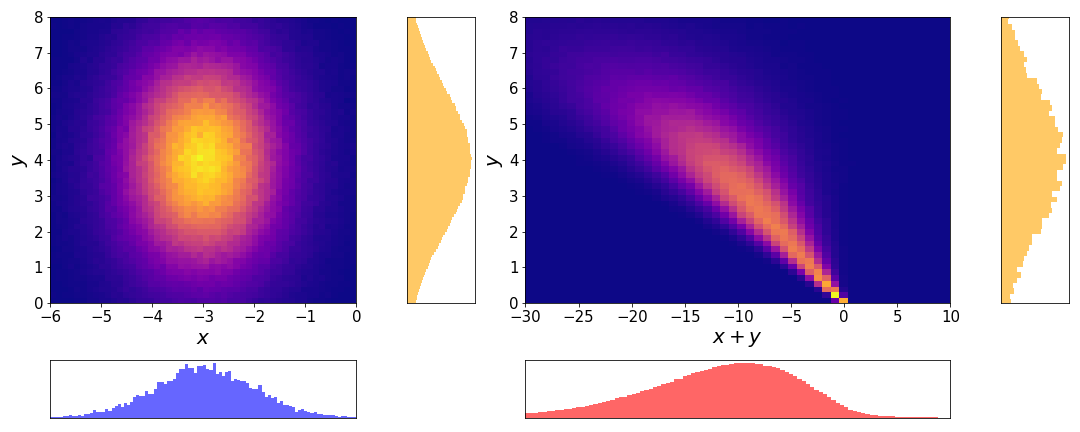
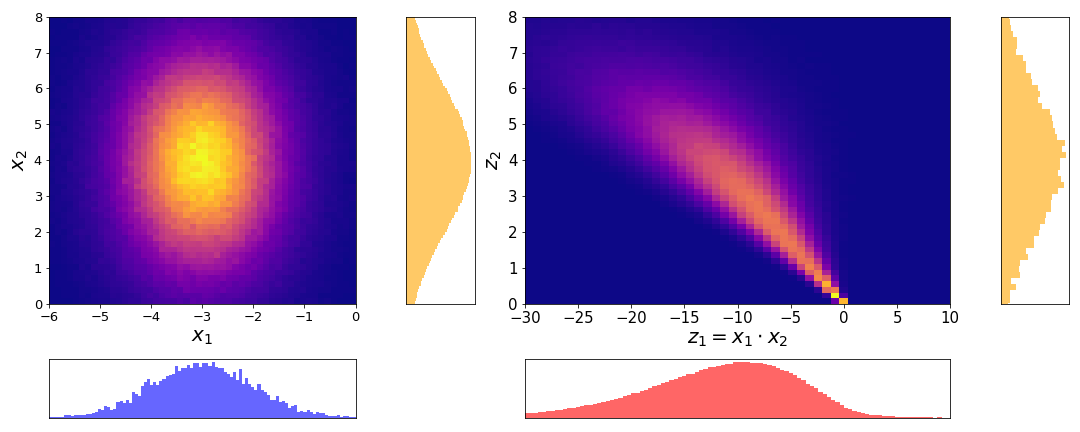
updated RV vs PDF

diff --git a/_posts/2021-06-01-RV_vs_pdf.md b/_posts/2021-06-01-RV_vs_pdf.md
@@ -42,17 +42,17 @@ Let $$X_1$$ and $$X_2$$ be two independent RVs with pdfs $$f_1(X_1)$$ and $$f_2(
 
 $$
 \begin{aligned}
-w &= x_1 + x_2 \\
-x_2 &= x_2
+w_1 &= x_1 + x_2 \\
+w_2 &= x_2
 \end{aligned}
 $$
 
-and inverse transformation $$g^{-1}(w, x_2)$$
+and inverse transformation $$g^{-1}(w_1, w_2)$$
 
 $$
 \begin{aligned}
-x_1 &= w - x_2 \\
-x_2 &= x_2
+x_1 &= w - w_2 \\
+x_2 &= w_2
 \end{aligned}
 $$
 
@@ -60,8 +60,8 @@ With the <a href='https://en.wikipedia.org/wiki/Probability_density_function#Fun
 
 $$
 \begin{aligned}
-f_Y(w,x_2) &= f(g^{-1}(w,x_2)) \vert J \vert \\
-&= f_1(w-x_2) f_2(x_2) \vert J \vert \\
+f_Y(w_1,w_2) &= f(g^{-1}(w_1,w_2)) \vert J \vert \\
+&= f_1(w_1-w_2) f_2(w_2) \vert J \vert \\
 \end{aligned}
 $$
 
@@ -70,8 +70,8 @@ where $$\vert J \vert$$ is the determinant of the Jacobian $$\left\vert \frac{\p
 $$
 \begin{aligned}
 J &= \left \vert \begin{pmatrix}
-    \frac{\partial x_1}{\partial w} & \frac{\partial x_1}{\partial x_2} \\
-    \frac{\partial x_2}{\partial w} & \frac{\partial x_2}{\partial x_2}
+    \frac{\partial x_1}{\partial w_1} & \frac{\partial x_1}{\partial w_2} \\
+    \frac{\partial x_2}{\partial w_1} & \frac{\partial x_2}{\partial w_2}
 \end{pmatrix} \right \vert \\
 &= \left \vert \begin{pmatrix}
     1 & -1 \\
@@ -81,11 +81,11 @@ J &= \left \vert \begin{pmatrix}
 \end{aligned}
 $$
 
-To get the distribution of $$w$$ we have to marginalize out $$x_2$$.
+To get the distribution of $$w_1$$ we have to marginalize out $$w_2$$.
 
 $$
 \begin{aligned}
-f(w) &= \int_{-\infty}^{+\infty} f_1(w - x_2) f_2(x_2) dx_2 \\
+f(w) &= \int_{-\infty}^{+\infty} f_1(w_1 - w_2) f_2(w_2) dw_2 \\
 \end{aligned}
 $$
 
@@ -100,7 +100,7 @@ We can visually understand this derivation as well.
   <img src="/img/RVs_vs_pdfs/Gaussian_joint_sum.png"/>
 </figure>
 
-On the __left__ we have the joint distribution $$p(x_1, x_2)$$ of the two independent Gaussian RVs $$X_1$$ and $$X_2$$. Since they are independent, the joint is the same as the product of the marginals $$p(x_1, x_2) = p(x_1) \cdot p(x_2)$$. The marginals are the same distributions as in the first figure of this chapter. On the __right__ we have the joint distribution after the transformation $$p(w, x_2)$$. We see that the marginal distribution $$p(w)$$ is similar to the histogram of the sum of Gaussian random variables. This shows, that applying the change of variable formula and computing the marginal yields the correct distribution for $$X_1 + X_2$$.
+On the __left__ we have the joint distribution $$p(x_1, x_2)$$ of the two independent Gaussian RVs $$X_1$$ and $$X_2$$. Since they are independent, the joint is the same as the product of the marginals $$p(x_1, x_2) = p(x_1) \cdot p(x_2)$$. The marginals are the same distributions as in the first figure of this chapter. On the __right__ we have the joint distribution after the transformation $$p(w_1, w_2)$$. We see that the marginal distribution $$p(w_1)$$ is similar to the histogram of the sum of Gaussian random variables. This shows, that applying the change of variable formula and computing the marginal yields the correct distribution for $$X_1 + X_2$$.
 
 Now we understand better where the difference between the sum of RVs and the sum of pdfs comes from. The sum of RVs is an operation applied to the RVs themselves while the sum of pdfs is applied to a function of the RVs. When formulated as a function of pdfs, the sum of RVs turns out to be their convolution - which is clearly not the sum of pdfs.
 
@@ -116,17 +116,17 @@ To understand why this is the case, we once again look into how the product of R
 
 $$
 \begin{aligned}
-z &= x_1 \cdot x_2 \\
-x_2 &= x_2
+z_1 &= x_1 \cdot x_2 \\
+z_2 &= x_2
 \end{aligned}
 $$
 
-and inverse transformation $$h^{-1}(z, x_2)$$
+and inverse transformation $$h^{-1}(z_1, z_2)$$
 
 $$
 \begin{aligned}
-x_1 &= z/x_2 \\
-x_2 &= x_2
+x_1 &= z_1/z_2 \\
+x_2 &= z_2
 \end{aligned}
 $$
 
@@ -134,8 +134,8 @@ Using the change of variable formula for pdfs we get the pdf of $$Y$$.
 
 $$
 \begin{aligned}
-f_Y(w,X_2) &= f(h^{-1}(z/x_2)) \vert J \vert \\
-&= f_1(z/x_2) f_2(x_2) \vert J \vert \\
+f_Y(z_1,z_2) &= f(h^{-1}(z_1/z_2)) \vert J \vert \\
+&= f_1(z_1/z_2) f_2(z_2) \vert J \vert \\
 \end{aligned}
 $$
 
@@ -144,20 +144,20 @@ with Jacobian
 $$
 \begin{aligned}
 J &= \left \vert \begin{pmatrix}
-    \frac{\partial x_1}{\partial z} & \frac{\partial x_1}{\partial x_2} \\
-    \frac{\partial x_2}{\partial z} & \frac{\partial x_2}{\partial x_2}
+    \frac{\partial x_1}{\partial z_1} & \frac{\partial x_1}{\partial z_2} \\
+    \frac{\partial x_2}{\partial z_1} & \frac{\partial x_2}{\partial z_2}
 \end{pmatrix} \right \vert \\
 &= \left \vert \begin{pmatrix}
-    \frac{1}{x_2} & -\frac{y}{x_2^2} \\
+    \frac{1}{z_2} & -\frac{y}{x_2^2} \\
     0 & 1
 \end{pmatrix} \right \vert
-= \frac{1}{x_2}
+= \vert \frac{1}{z_2} \vert
 \end{aligned}
 $$
 
-Inserting $$J$$ and marginalizing out $$x_2$$ we get
+Inserting $$J$$ and marginalizing out $$z_2$$ we get
 
-$$f(z) = \int_0^{+\infty} \frac{1}{x_2} f_1\left(\frac{z}{x_2}\right) f_2(x_2) dx_2$$
+$$f(z_1) = \int_0^{+\infty} \frac{1}{z_2} f_1\left(\frac{z_1}{z_2}\right) f_2(z_2) dz_2$$
 
 which is known as the <a href='https://en.wikipedia.org/wiki/Mellin_transform'>Mellin convolution</a> of $$f_1(x_1)$$ and $$f_2(x_2)$$.
 
@@ -170,9 +170,23 @@ The derivation through the joint can be understood visually as well.
   <img src="/img/RVs_vs_pdfs/Gaussian_joint_product.png"/>
 </figure>
 
-On the __left__ we have the joint distribution $$p(x_1, x_2)$$ of the two independent Gaussian RVs $$X_1$$ and $$X_2$$ with respective marginal distributions. On the __right__ we have the joint distribution after the transformation $$p(z, x_2)$$. We see that the marginal distribution $$p(z)$$ is similar to the histogram of the product of Gaussian RVs from the first figure of this chapter.
+On the __left__ we have the joint distribution $$p(x_1, x_2)$$ of the two independent Gaussian RVs $$X_1$$ and $$X_2$$ with respective marginal distributions. On the __right__ we have the joint distribution after the transformation $$p(z_1, z_2)$$. We see that the marginal distribution $$p(z)$$ is similar to the histogram of the product of Gaussian RVs from the first figure of this chapter.
 
 Similar to the case of the sum, we can now clearly see that the product of two independent RVs does not translate to the product of their pdfs, but rather to their Mellin.
+
+## Examples
+
+__Sum:__ Assume there are three houses - yours $$(A)$$, your mom's $$(B)$$ and your grandpa's $$(C)$$. The path from your house to your grandpa's goes past your mom's house. You measure the distance $$X_1$$ from $$A$$ to $$B$$ and your mom measures the distance $$X_2$$ from $$B$$ to $$C$$ but you are ultimately interested in the distance from $$A$$ to $$C$$, $$W=X_1 + X_2$$. Your measurement is noisy, e.g. because you estimate the distance y counting the number of steps. Thus $$X_1, X_2$$ and $$W$$ are random variables. If the noise of your measurement is Gaussian then the sum of the measurements $$W$$ is distributed according to a Gaussian again. The sum of pdfs $$p_1(x_1) + p_2(x_2)$$ doesn't have any real-life interpretation that I would be aware of.
+
+<figure>
+  <img src="/img/RVs_vs_pdfs/RV_vs_PDF_example1_1.png"/>
+</figure>
+
+__Product:__ Assume you own a rectangular piece of land and want to estimate its area. You measure the length of one side $$X_1$$ and the other $$X_2$$. Once again, we assume a Gaussian measurement error. Then the random variable describing the area $$Z = X_1 \cdot X_2$$ is not distributed according to a Gaussian. The product of the pdfs, $$p_1(x_1) \cdot p_2(x_2)$$, is proportional to a Gaussian but has no relation to the area. It can be interpreted as the <a href='https://en.wikipedia.org/wiki/Likelihood_function'>likelihood</a> of $$X_1$$ and $$X_2$$. With the likelihood, we can determine how likely a given combination of observed measurement values $$x_1, x_2$$ are under the assumption of Gaussian measurement noise. 
+
+<figure>
+  <img src="/img/RVs_vs_pdfs/RV_vs_PDF_example2.png"/>
+</figure>
 
 ## Conclusion
 
